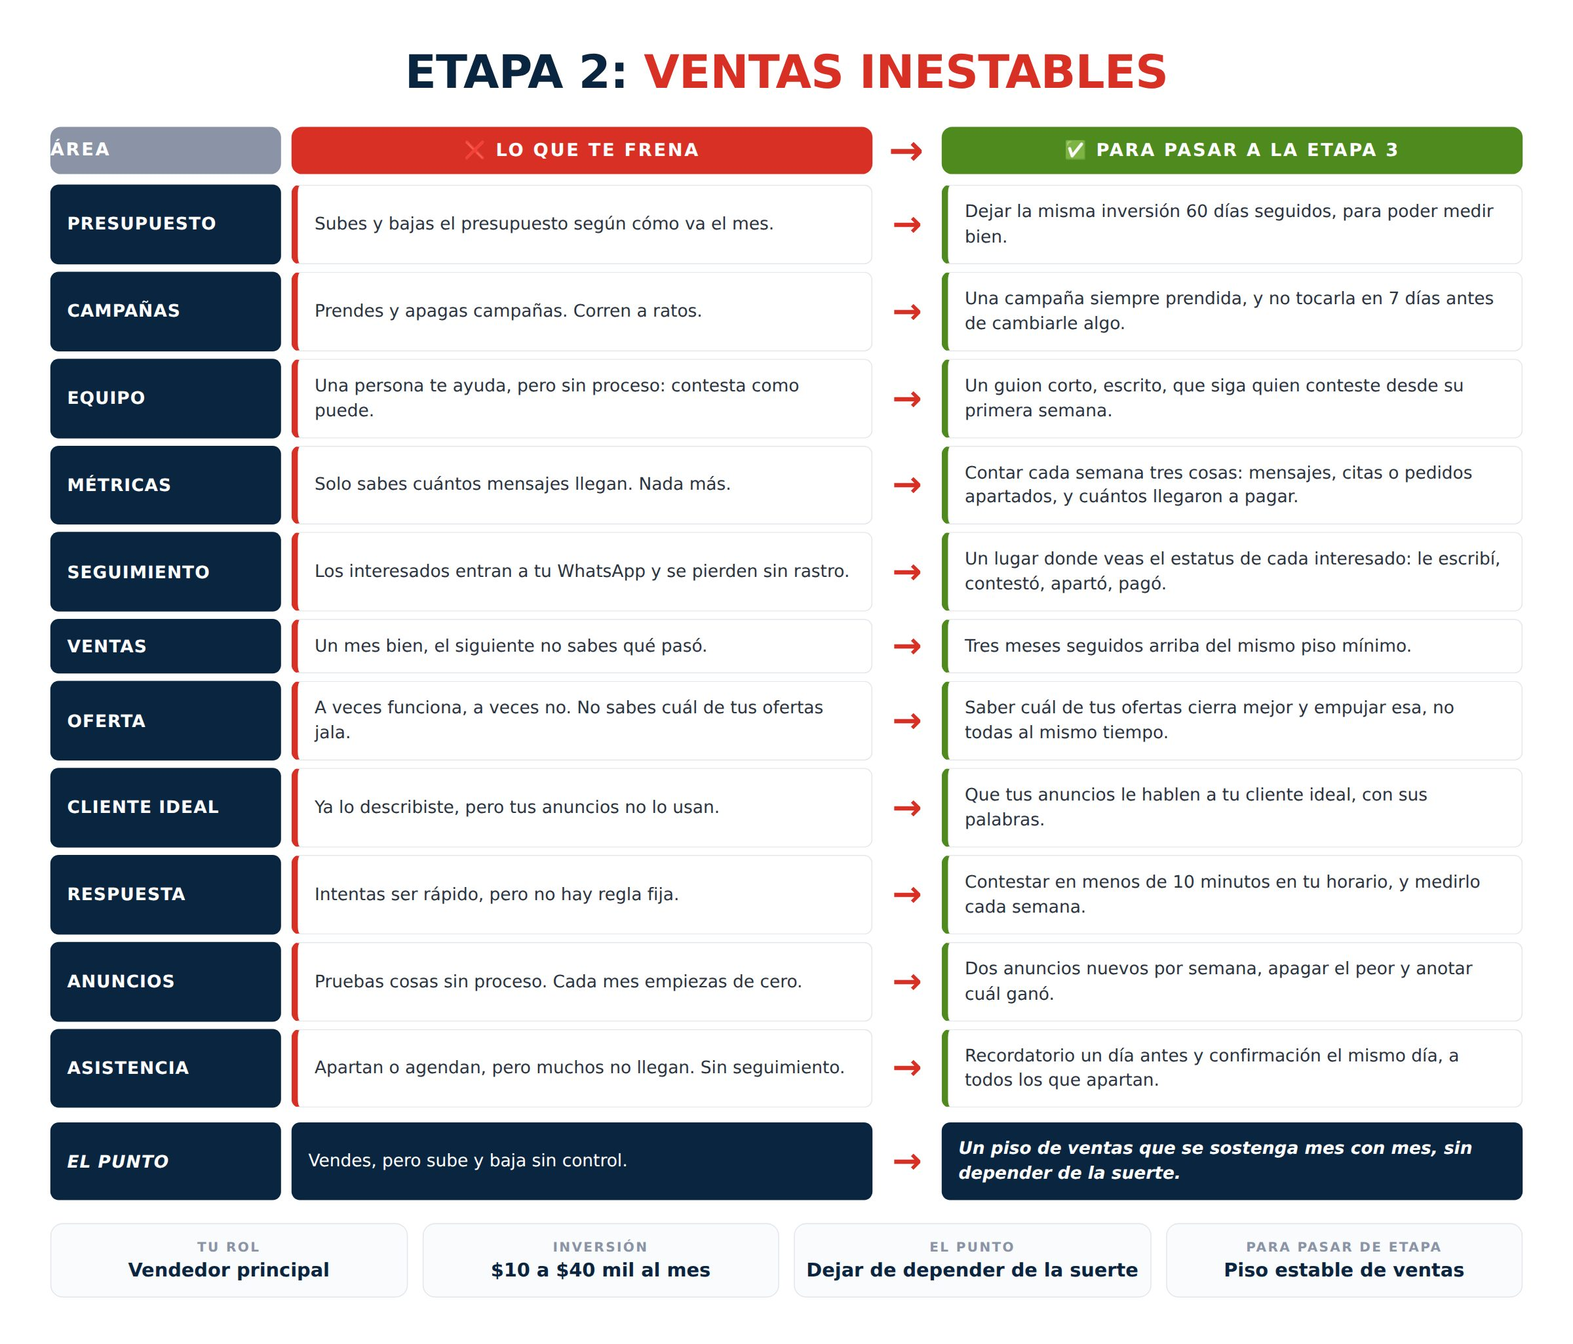
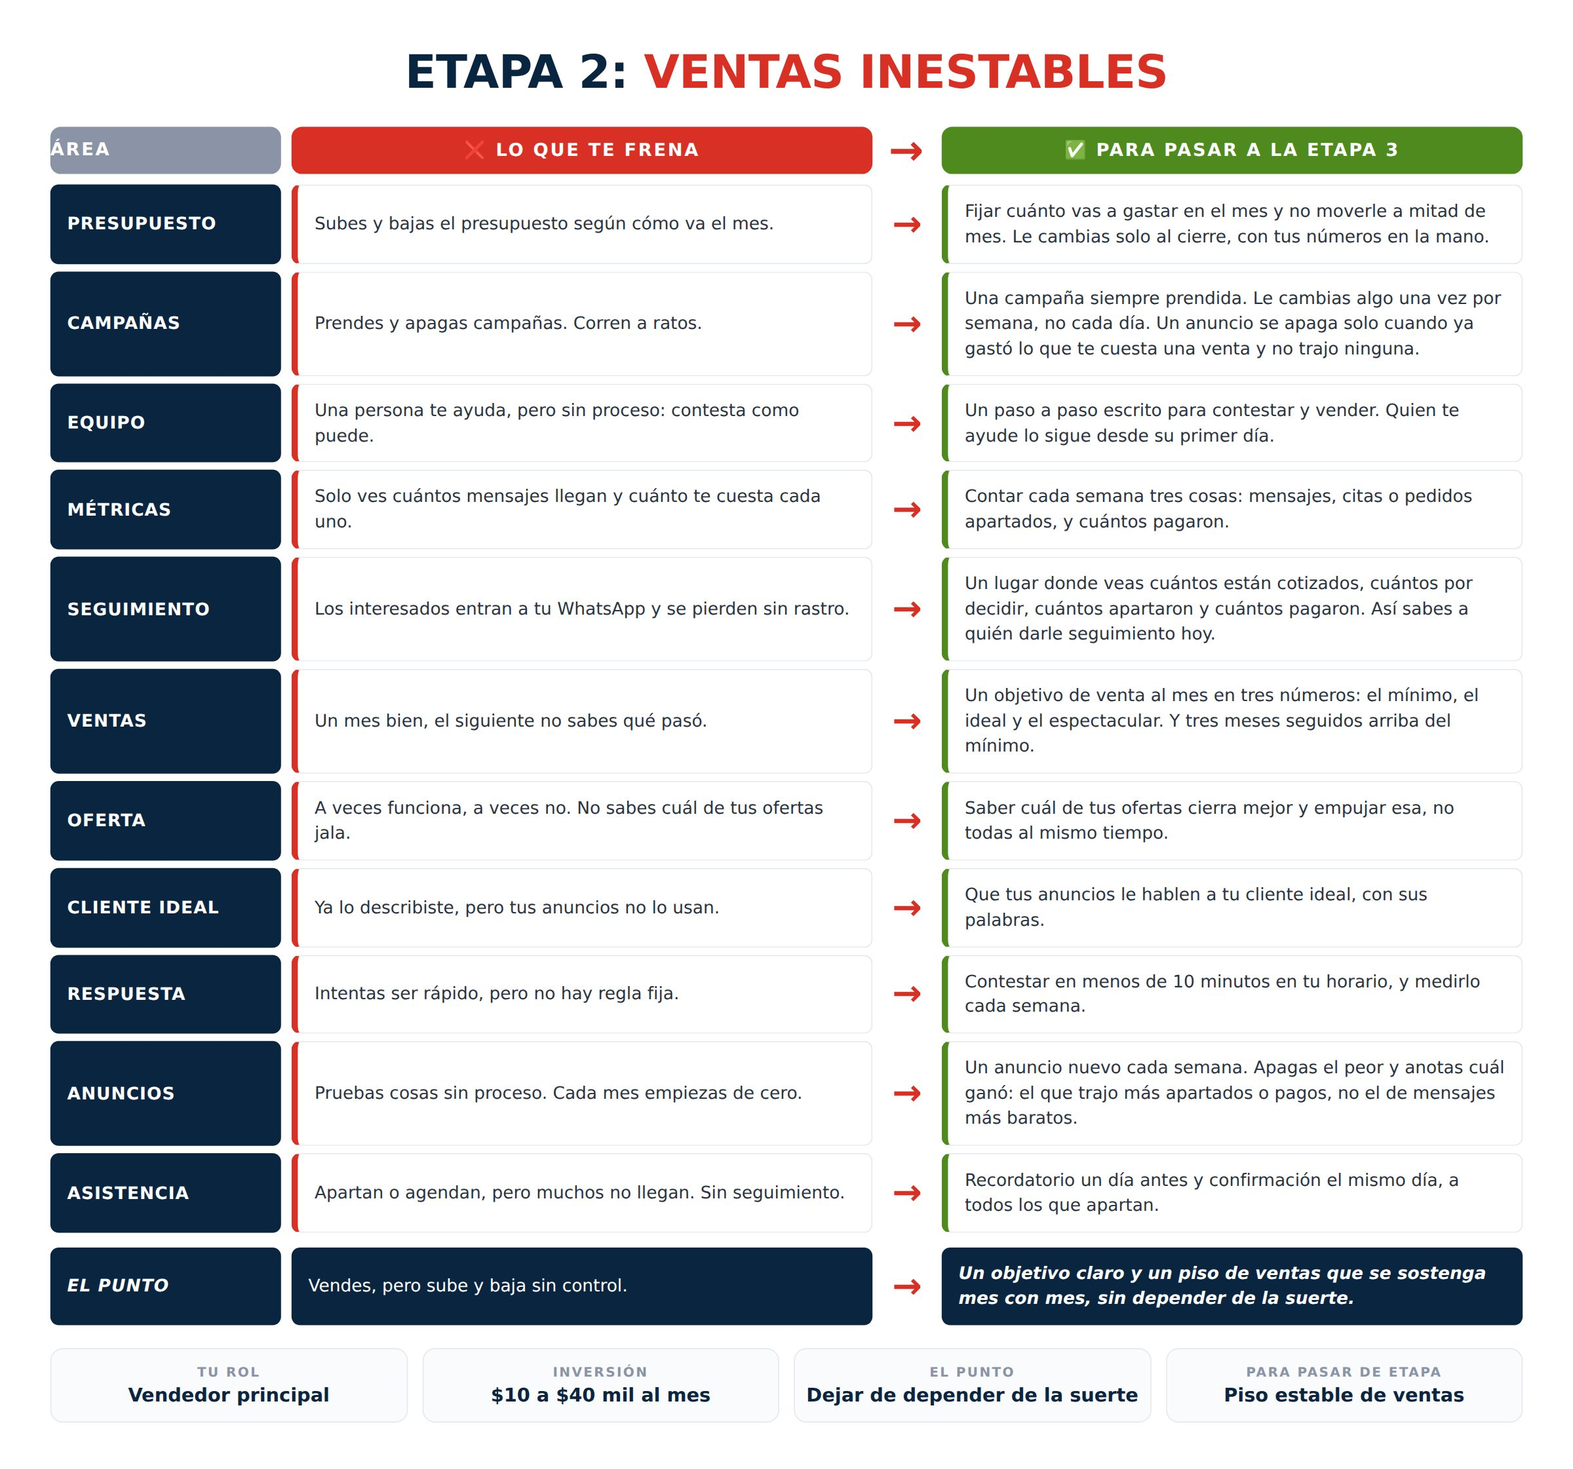
Add files via upload

diff --git a/v32.html b/v32.html
@@ -1688,7 +1688,14 @@ const TEETH=[
   hoy:'Anota tus ventas de los últimos 6 meses. Pregunta dura: ¿tu peor mes aguanta tus costos fijos?',
   why34:'Vender bien este mes no dice nada si no sabes <b>de qué está hecho el número</b>: cuánto fue cliente nuevo (caro, pagado con ads) y cuánto recurrente (barato, tuyo). Y la pregunta de tu etapa: ¿puedes ver tu venta del PRÓXIMO mes hoy? Las citas ya agendadas son tu venta futura visible. Casi nadie las mira como pipeline.',
   hoy34:'Parte tu venta del mes pasado en dos: nuevos vs recurrentes. Luego cuenta las citas ya agendadas para los próximos 15 días. Si ese número está flaco, tu "buen mes" ya se está acabando, y todavía no lo sientes.',
-  pasos34:['Parte tu venta del mes pasado en dos montones: <b>clientes nuevos</b> (los que trajeron los ads) y <b>clientes que ya eran tuyos</b>.','Cuenta las <b>citas ya agendadas</b> para los próximos 15 días. Ese número es tu venta futura visible.','Léelo así: mucho nuevo + pocas citas futuras = <b>tu buen mes ya se está acabando</b>, aunque todavía no se sienta.','¿Salieron flacas tus citas futuras? El relleno más barato no son más ads: son tus <b>clientes dormidos</b>. Hoy mismo manda mensaje a 20 clientes que no vienen desde hace 3 meses o más, por su nombre y con una razón para volver: "Hola Ana, ya te toca tu retoque. Esta semana tengo dos espacios, ¿te aparto uno?". Con que 3 agenden, el bache del próximo mes ya empezó a llenarse gratis.'],reto34:'Cada lunes: citas futuras a 15 días. ¿Flacas? Ese mismo lunes salen 20 mensajes a clientes dormidos.'},
+  pasos34:['Parte tu venta del mes pasado en dos montones: <b>clientes nuevos</b> (los que trajeron los ads) y <b>clientes que ya eran tuyos</b>.','Cuenta las <b>citas ya agendadas</b> para los próximos 15 días. Ese número es tu venta futura visible.','Léelo así: mucho nuevo + pocas citas futuras = <b>tu buen mes ya se está acabando</b>, aunque todavía no se sienta.','¿Salieron flacas tus citas futuras? El relleno más barato no son más ads: son tus <b>clientes dormidos</b>. Hoy mismo manda mensaje a 20 clientes que no vienen desde hace 3 meses o más, por su nombre y con una razón para volver: "Hola Ana, ya te toca tu retoque. Esta semana tengo dos espacios, ¿te aparto uno?". Con que 3 agenden, el bache del próximo mes ya empezó a llenarse gratis.'],reto34:'Cada lunes: citas futuras a 15 días. ¿Flacas? Ese mismo lunes salen 20 mensajes a clientes dormidos.',ofName:'Tu objetivo, tu presupuesto y tus números de la semana',ofPrice:50,
+  ofHook:'Un mes bien y otro flojo no es mala suerte. Es que nadie está viendo los números cada semana.',
+  ofWin:'Saber cada semana si vas bien o mal, y por qué. Fijas tu objetivo del mes, tu presupuesto deja de subir y bajar por corazonada, y cada viernes ves en qué paso se te fue la gente: si no te escribieron, si no apartaron o si no pagaron. Con eso decides con números si le subes, la dejas igual o apagas un anuncio. No te prometo un número: depende de tu oferta y de cuánto te escriben hoy.',
+  ofFor:'Es para ti si ya vendes con anuncios y un mes sale bien y otro no. No es para ti si todavía casi nadie te escribe: tu paso es la guía de etapa 1.',
+  ofTime:'Una tarde para armarlo y 10 minutos cada viernes para llenarlo.',
+  ofOut:'Cuatro cosas que vas a tener escritas al terminar.',
+  ofOutList:['Tu objetivo del mes en tres números: el mínimo, el ideal y el espectacular.','Tu presupuesto del mes, fijo, sacado de tu objetivo y de lo que te cuesta una venta.','Tu hoja de la semana con 4 números: mensajes, apartados, pagados y cuánto te costó cada venta.','Tu regla de cada viernes: cuándo subirle, cuándo dejarla igual y cuándo apagar un anuncio.'],
+  ofBullets:['Dos videos cortos:<ul class="g-sub"><li><b>Video 1:</b> cómo poner tu objetivo en tres números y sacar de ahí tu presupuesto del mes. Con casos reales de varios giros.</li><li><b>Video 2:</b> la hoja de la semana, en vivo. La lleno con los números de un negocio real y te enseño a leer el veredicto de cada viernes.</li></ul>','El prompt: un texto listo que le pegas a Claude (la inteligencia artificial, gratis). Le das tus ventas de los últimos 3 meses y lo que gastaste en anuncios, y te saca tu objetivo en tres números, tu presupuesto y cuánto te está costando cada venta. Si te faltan números, te dice cuáles juntar.','La hoja de la semana lista para copiar, con una llena de ejemplo, y la ficha de una hoja con tu objetivo y tu regla del viernes.']},
  {l:'Oferta',sig:'OFERTA',g:0,x:'Lo que vendes y si la gente de verdad lo quiere.',def:'Tu oferta es lo que prometes, a qué precio y con qué garantía. Está validada cuando la gente paga por ella sin que tengas que convencerla de a uno.',
   why:'Si la oferta no jala, todo lo demás empuja en vano: el mejor anuncio del mundo no vende algo que la gente no quiere comprar.',
   hoy:'Revisa tus últimos 10 clientes: ¿compraron lo que TÚ querías vender, o lo que ellos pidieron? Esa diferencia te dice cuál es tu oferta real.',
@@ -1715,15 +1722,7 @@ const TEETH=[
   hoy34:'Toma tus últimos 20 leads con hora de llegada y hora de primera respuesta. Sepáralos: horario laboral vs fuera de horario. El segundo número es el que te está costando, y casi nadie lo ha visto nunca.',
   pasos34:['Toma tus <b>últimos 20 leads</b>: apunta a qué hora llegó cada uno y a qué hora se le contestó.','Sepáralos en dos montones: <b>horario de oficina</b> vs <b>fuera de horario</b> (noches y fin de semana).','Saca el promedio de respuesta de cada montón. El segundo número es el que te está costando ventas, y casi nadie lo ha visto nunca.','Mientras montas la cobertura completa, ponle un tapón HOY, gratis, 5 minutos: WhatsApp Business → Ajustes → Herramientas para la empresa → <b>Mensaje de ausencia</b>. Prográmalo para noches y fin de semana, y que no diga "te contestamos luego": que AVANCE la venta: <i>"¡Hola! Ahorita no estamos en línea. Dime qué tratamiento te interesa y qué día te gustaría venir, y mañana a primera hora te agendo."</i> El que contesta eso ya no es un lead frío el lunes: es una cita a medio agendar.'],reto34:'Casi nadie ha visto su número de fuera-de-horario. Los que lo ven, no lo pueden desver.',
   hoy:'Saca tus últimos 10 mensajes que llegaron de anuncios y mide cuánto tardaste en contestar cada uno.',
-  hoyPasos:['Apunta a qué hora llegó cada mensaje y a qué hora contestaste.','Sepáralos en dos montones: los que llegaron en tu horario y los que llegaron de noche o en fin de semana.','Cuenta cuántos pasaron de 10 minutos. Ese número es lo que te está costando el mes flojo.','Hoy mismo, gratis: en WhatsApp Business pon un mensaje de ausencia para noches y fin de semana que avance la venta: "Ahorita no estamos en línea. Dime qué te interesa y qué día te queda bien, y mañana a primera hora te lo aparto."'],
-  ofName:'Tu respuesta y tu seguimiento',ofPrice:50,
-  ofHook:'El anuncio ya hizo su trabajo. La venta se cae después: en lo que tardas en contestar y en los que se te olvidan.',
-  ofWin:'Que el mes flojo deje de ser un misterio. Contestar en minutos siempre, no solo cuando puedes, y que ningún interesado se quede sin seguimiento. Con los mismos anuncios, cierras más de la gente que ya te escribió. No te prometo un número: depende de cuántos te escriben hoy.',
-  ofFor:'Es para ti si ya te escriben seguido y vendes, pero un mes bien y otro no. No es para ti si todavía casi nadie te escribe: tu paso es la guía de etapa 1.',
-  ofTime:'Una tarde para armarlo y una semana para verlo funcionar.',
-  ofOut:'Cuatro cosas que vas a tener escritas al terminar.',
-  ofOutList:['Tu regla de respuesta: en cuántos minutos, en qué horario y quién contesta.','Tu guion corto de ventas: qué decir en el primer mensaje, qué preguntar y cómo ofrecer cerrar.','Tu hoja de seguimiento, con el estatus de cada interesado.','Tus 3 mensajes de seguimiento, escritos con tus palabras: el del mismo día, el del día siguiente y el de la semana.'],
-  ofBullets:['Dos videos cortos:<ul class="g-sub"><li><b>Video 1:</b> la regla de respuesta y el guion corto de ventas, con chats reales de varios giros: qué decir en el primer mensaje y cómo ofrecer cerrar sin presionar.</li><li><b>Video 2:</b> tu hoja de seguimiento y tus 3 mensajes, en vivo. Cómo correr el prompt con tus chats y salir con todo listo para usar mañana.</li></ul>','El prompt: un texto listo que le pegas a Claude (la inteligencia artificial, gratis). Le das tus chats y te arma tu guion y tus 3 mensajes de seguimiento con las palabras que ya usas. Si solo le das tus opiniones, te pide los chats.','La ficha de una hoja para guardar tu regla y tu guion, y la hoja de seguimiento lista para copiar, con una llena de ejemplo.']},
+  hoyPasos:['Apunta a qué hora llegó cada mensaje y a qué hora contestaste.','Sepáralos en dos montones: los que llegaron en tu horario y los que llegaron de noche o en fin de semana.','Cuenta cuántos pasaron de 10 minutos. Ese número es lo que te está costando el mes flojo.','Hoy mismo, gratis: en WhatsApp Business pon un mensaje de ausencia para noches y fin de semana que avance la venta: "Ahorita no estamos en línea. Dime qué te interesa y qué día te queda bien, y mañana a primera hora te lo aparto."']},
  {l:'Generación de ads',sig:'ADS',g:1,x:'Cómo produces tus anuncios: al azar o con sistema.',def:'Cómo produces anuncios nuevos: cuántos sacas al mes, con qué ángulos y cómo decides cuál se queda.',
   why:'Sin sistema, cada anuncio es un volado. Con sistema (momento del cliente → ángulo → formato → primera línea) cada anuncio es una prueba que te enseña algo, gane o pierda.',
   hoy:'Abre tus últimos 3 anuncios: ¿la primera línea dice qué, cuánto y cuándo ("...$1,200, citas mañana"), o abre con rodeos?',
@@ -1968,20 +1967,21 @@ const CHK1=[
  {area:'Asistencia',text:'Que el que dice "sí" de verdad llegue: a la cita o a pagar el pedido. Llevar la cuenta y recordarle antes.',ej:'De 10 que dicen "sí, voy" o "sí, lo quiero", apuntas cuántos llegaron a la cita o a pagar. Y antes les escribes: "Te espero mañana a las 4, ¿confirmas?" o "Te aparto tu pedido hasta hoy a las 6, ¿lo cierro?"',na:true}
 ];
 const CHK2=[
- {area:'Presupuesto',text:'Dejar la misma inversión 60 días seguidos, para poder medir bien.',ej:'Decides $15 mil al mes y no le mueves en 60 días, ni cuando un mes sale flojo. Al final comparas los dos meses y ya sabes si funciona.'},
- {area:'Campañas',text:'Una campaña siempre prendida, y no tocarla en 7 días antes de cambiarle algo.',ej:'La campaña corre toda la semana sin apagarla. Si quieres cambiar el anuncio o el presupuesto, esperas a que cumpla 7 días y cambias una sola cosa.'},
- {area:'Equipo',text:'Un guion corto, escrito, que siga quien conteste desde su primera semana.',ej:'Una hoja con 5 pasos: saludo, una pregunta para saber qué necesita, precio, ofrecer cerrar y qué hacer si dice "lo pienso". Quien entre a contestar la lee y la sigue.'},
- {area:'Métricas',text:'Contar cada semana tres cosas: mensajes, citas o pedidos apartados, y cuántos llegaron a pagar.',ej:'Cada viernes anotas: 40 mensajes, 12 apartaron, 7 pagaron. Con eso ves en qué paso se te van.'},
- {area:'Seguimiento',text:'Un lugar donde veas el estatus de cada interesado: le escribí, contestó, apartó, pagó.',ej:'Una hoja o las etiquetas de WhatsApp Business. Cada persona tiene su estatus y nadie se queda sin seguimiento por olvido.'},
- {area:'Ventas',text:'Tres meses seguidos arriba del mismo piso mínimo.',ej:'Tu piso es $30 mil. Si tres meses seguidos vendes $30 mil o más, ya no es suerte: es un negocio que se sostiene.'},
+ {area:'Presupuesto',text:'Fijar cuánto vas a gastar en el mes y no moverle a mitad de mes. Le cambias solo al cierre, con tus números en la mano.',ej:'Decides $15 mil para septiembre. Aunque la segunda semana salga floja, no le bajas. El 30 revisas cuántas ventas trajo y ahí decides cuánto va en octubre.'},
+ {area:'Campañas',text:'Una campaña siempre prendida. Le cambias algo una vez por semana, no cada día. Un anuncio se apaga solo cuando ya gastó lo que te cuesta una venta y no trajo ninguna.',ej:'Tu venta te cuesta como $600 en anuncios. Un anuncio lleva $700 gastados y cero apartados: ese se apaga. Los demás siguen hasta el viernes, que es tu día de mover cosas.'},
+ {area:'Equipo',text:'Un paso a paso escrito para contestar y vender. Quien te ayude lo sigue desde su primer día.',ej:'Una hoja con 5 pasos: saludo, una pregunta para saber qué necesita, precio, ofrecer apartar y qué decir si contesta "lo pienso". Quien entre a contestar la lee y la sigue.'},
+ {area:'Métricas',text:'Contar cada semana tres cosas: mensajes, citas o pedidos apartados, y cuántos pagaron.',ej:'Cada viernes anotas: 40 mensajes, 12 apartaron, 7 pagaron. Con eso ves en qué paso se te van.'},
+ {area:'Seguimiento',text:'Un lugar donde veas cuántos están cotizados, cuántos por decidir, cuántos apartaron y cuántos pagaron. Así sabes a quién darle seguimiento hoy.',ej:'Una hoja o las etiquetas de WhatsApp Business. Hoy: 9 cotizados, 5 por decidir, 3 apartados, 2 pagados. A los 5 por decidir les escribes hoy.'},
+ {area:'Ventas',text:'Un objetivo de venta al mes en tres números: el mínimo, el ideal y el espectacular. Y tres meses seguidos arriba del mínimo.',ej:'Mínimo $30 mil, ideal $45 mil, espectacular $60 mil. Si tres meses seguidos pasas de $30 mil, ya no es suerte: es un negocio que se sostiene.'},
  {area:'Oferta',text:'Saber cuál de tus ofertas cierra mejor y empujar esa, no todas al mismo tiempo.',ej:'Vendes tres paquetes. Cuentas cuál cierra más seguido sin regateo y ese es el que va en tus anuncios este mes.'},
  {area:'Cliente ideal',text:'Que tus anuncios le hablen a tu cliente ideal, con sus palabras.',ej:'Ya sabes que te compra la mujer de 30 a 45 que ya probó otras cosas. Tu anuncio dice eso, no "para todos".'},
  {area:'Respuesta',text:'Contestar en menos de 10 minutos en tu horario, y medirlo cada semana.',ej:'Cada semana revisas 10 chats: a qué hora llegaron y a qué hora contestaste. Si más de 2 pasaron de 10 minutos, se arregla esa semana.'},
- {area:'Anuncios',text:'Dos anuncios nuevos por semana, apagar el peor y anotar cuál ganó.',ej:'Lunes subes 2 anuncios nuevos. Viernes apagas el que trajo menos mensajes y apuntas cuál ganó y por qué crees que ganó.'},
+ {area:'Anuncios',text:'Un anuncio nuevo cada semana. Apagas el peor y anotas cuál ganó: el que trajo más apartados o pagos, no el de mensajes más baratos.',ej:'Lunes subes un anuncio nuevo. Viernes ves cuál trajo más apartados: ese ganó, aunque sus mensajes hayan salido más caros. El peor se apaga.'},
  {area:'Asistencia',text:'Recordatorio un día antes y confirmación el mismo día, a todos los que apartan.',ej:'Ayer: "Te espero mañana a las 4, ¿confirmas?". Hoy en la mañana: "Nos vemos hoy a las 4". A todos, no solo a los que te acuerdas.',na:true}
 ];
 const CHK_BY={1:CHK1,2:CHK2};
-const PIDE_COVERED_BY={1:['Cliente ideal','Oferta','Anuncios'],2:['Respuesta','Equipo','Seguimiento']};
+const PIDE_COVERED_BY={1:['Cliente ideal','Oferta','Anuncios'],2:['Presupuesto','Métricas','Ventas']};
+const ETAPA_GUIDE={2:'Venta mensual'}; // guía de la etapa cuando no es el mismo diente del bloque gratis
 const ETAPA_TOOTH={1:'Cliente',2:'Respuesta a leads'};
 function CHKN(){ return (state&&state.etapa===2)?2:1; }
 function CHK(){ return CHK_BY[CHKN()]||CHK1; }
@@ -2139,34 +2139,36 @@ function render(levels){
   h+=`<div class="u-row"><div class="u-k">Qué hacer esta semana, gratis</div><div class="u-t">${t.hoy||''}</div>`;
   if(t.hoyPasos&&t.hoyPasos.length) h+=`<ol class="u-pasos">${t.hoyPasos.map(x=>`<li>${x}</li>`).join('')}</ol>`;
   h+=`</div>`;
-  if(t.ofName) h+=`<p class="u-bridge">¿Prefieres que te lo dé resuelto? Abajo está la guía.</p>`;
+  const tg=(ETAPA_GUIDE[et]&&real.find(x=>x.l===ETAPA_GUIDE[et]))||t;
+ if(tg.ofName) h+=`<p class="u-bridge">${tg===t?'¿Prefieres que te lo dé resuelto? Abajo está la guía.':'Eso es gratis y de hoy. Abajo está la guía de tu etapa.'}</p>`;
   u.innerHTML=h; u.style.display='';
-  if(t.ofName){
-   const bullets=(t.ofBullets||[]).map(x=>{
+  if(tg.ofName){
+   const full=tg.ofFull||(tg.ofPrice?tg.ofPrice*2-1:0);
+   const bullets=(tg.ofBullets||[]).map(x=>{
     let ic='✓';
-    if(/^Dos videos/.test(x)) ic='🎥'; else if(/^El prompt/.test(x)) ic='🤖'; else if(/^La ficha/.test(x)) ic='📄';
+    if(/^Dos videos/.test(x)) ic='🎥'; else if(/^El prompt/.test(x)) ic='🤖'; else if(/^La ficha|^La hoja/.test(x)) ic='📄';
     return `<li class="g-stack-row"><span class="g-stack-ic">${ic}</span><span class="g-stack-tx">${x}</span></li>`;
    }).join('');
-   let gh=`<div class="g-card"><div class="g-tag">LA GUÍA DE ETAPA ${et}</div><div class="g-cover"><span class="g-cover-t">${t.ofName}</span></div>`;
-   if(t.ofHook) gh+=`<p class="g-hook">${t.ofHook}</p>`;
-   gh+=`<button class="lq ${t.s} g-btn g-btn-top" data-wl="${slug(t.l)}">Apartar mi lugar en la lista →</button>`;
+   let gh=`<div class="g-card"><div class="g-tag">LA GUÍA DE ETAPA ${et}</div><div class="g-cover"><span class="g-cover-t">${tg.ofName}</span></div>`;
+   if(tg.ofHook) gh+=`<p class="g-hook">${tg.ofHook}</p>`;
+   gh+=`<button class="lq ${tg.s} g-btn g-btn-top" data-wl="${slug(tg.l)}">Apartar mi lugar en la lista →</button>`;
    gh+=`<p class="g-nopay">Hoy no pagas nada. Cuando salga, te aviso a tu correo y ahí decides.</p>`;
-   if(t.ofWin) gh+=`<div class="g-callout"><div class="g-k">Qué vas a poder hacer</div><p class="g-tx">${t.ofWin}</p></div>`;
-   if(t.ofFor||t.ofTime){
+   if(tg.ofWin) gh+=`<div class="g-callout"><div class="g-k">Qué vas a poder hacer</div><p class="g-tx">${tg.ofWin}</p></div>`;
+   if(tg.ofFor||tg.ofTime){
     gh+=`<div class="g-two">`;
-    if(t.ofFor) gh+=`<div class="g-mini"><div class="g-k">Para quién es</div><p class="g-tx-sm">${t.ofFor}</p></div>`;
-    if(t.ofTime) gh+=`<div class="g-mini"><div class="g-k">Cuánto tardas</div><p class="g-tx-sm">${t.ofTime}</p></div>`;
+    if(tg.ofFor) gh+=`<div class="g-mini"><div class="g-k">Para quién es</div><p class="g-tx-sm">${tg.ofFor}</p></div>`;
+    if(tg.ofTime) gh+=`<div class="g-mini"><div class="g-k">Cuánto tardas</div><p class="g-tx-sm">${tg.ofTime}</p></div>`;
     gh+=`</div>`;
    }
-   if(t.ofOut){
+   if(tg.ofOut){
     gh+=`<div class="g-k">Con qué sales</div>`;
-    if(t.ofOutList&&t.ofOutList.length) gh+=`<p class="g-tx">Cuatro cosas que vas a tener escritas al terminar:</p><ul class="g-out">${t.ofOutList.map(x=>`<li>${x}</li>`).join('')}</ul>`;
-    else gh+=`<p class="g-tx">${t.ofOut}</p>`;
+    if(tg.ofOutList&&tg.ofOutList.length) gh+=`<p class="g-tx">Cuatro cosas que vas a tener escritas al terminar:</p><ul class="g-out">${tg.ofOutList.map(x=>`<li>${x}</li>`).join('')}</ul>`;
+    else gh+=`<p class="g-tx">${tg.ofOut}</p>`;
    }
-   gh+=`<div class="g-k">${t.ofOut?'Qué trae':'Trae video, hoja y una IA lista para usar'}</div><ul class="g-stack">${bullets}</ul>`;
-   gh+=`<div class="g-price"><span class="g-reg">Precio regular: $${full} pesos</span><span class="g-now-big">$${t.ofPrice} pesos</span><span class="g-now-sub">Precio especial de lanzamiento para la lista de espera</span></div>`;
-   gh+=`<div class="g-gar-row"><span class="g-gar-ic">🛡</span><p class="g-gar">Si la ves y no te sirve, me escribes y te regreso tus $${t.ofPrice} pesos.</p></div>`;
-   gh+=`<button class="lq ${t.s} g-btn" data-wl="${slug(t.l)}">Apartar mi lugar en la lista →</button>`;
+   gh+=`<div class="g-k">${tg.ofOut?'Qué trae':'Trae video, hoja y una IA lista para usar'}</div><ul class="g-stack">${bullets}</ul>`;
+   gh+=`<div class="g-price"><span class="g-reg">Precio regular: $${full} pesos</span><span class="g-now-big">$${tg.ofPrice} pesos</span><span class="g-now-sub">Precio especial de lanzamiento para la lista de espera</span></div>`;
+   gh+=`<div class="g-gar-row"><span class="g-gar-ic">🛡</span><p class="g-gar">Si la ves y no te sirve, me escribes y te regreso tus $${tg.ofPrice} pesos.</p></div>`;
+   gh+=`<button class="lq ${tg.s} g-btn" data-wl="${slug(tg.l)}">Apartar mi lugar en la lista →</button>`;
    gh+=`<p class="g-nopay">Hoy no pagas nada. Cuando salga, te aviso a tu correo y ahí decides.</p><p class="g-status">Las guías salen una por una, en el orden que la lista de espera decide: tu lugar cuenta para que la tuya salga antes.</p></div>`;
    g.innerHTML=gh; g.style.display='';
   } else { g.innerHTML=''; g.style.display='none'; }
